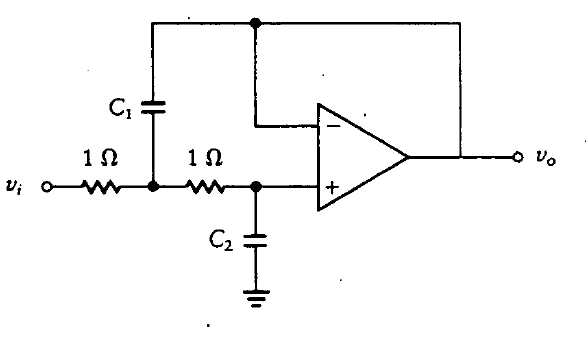
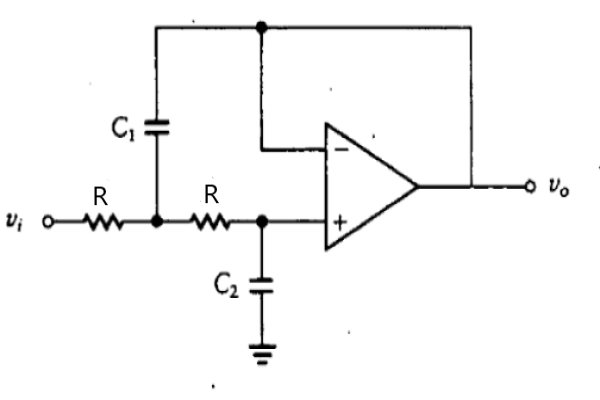
Se agregan las fots y se completa el back de filtros pasa bajas

Changed region(s): [[0.0, 0.0593, 0.9522, 0.9199], [0.6451, 0.4154, 0.6758, 0.4451], [0.6143, 0.3858, 0.6451, 0.4154]]

diff --git a/Java/MostrarinfoBajos.js b/Java/MostrarinfoBajos.js
@@ -1,0 +1,120 @@
+var imgPasabajos2= document.createElement('img'); 
+var imgPasabajos3= document.createElement('img'); 
+var imgPasabajos4= document.createElement('img'); 
+var imgPasabajos5= document.createElement('img'); 
+var imgPasabajos6= document.createElement('img'); 
+var imgPasabajos7= document.createElement('img'); 
+var imgPasabajos8= document.createElement('img'); 
+var imgPasabajos9= document.createElement('img'); 
+var imgPasabajos10= document.createElement('img'); 
+
+
+//var imgPasaaltos2= document.createElement('img'); 
+//var imgPasaaltos3= document.createElement('img'); 
+var Alerta = document.createElement('h1');
+Alerta.innerHTML = 'Grado invalido';
+imgPasabajos2.src = '../Imagenes/Pasabajos2.png';
+imgPasabajos3.src = '../Imagenes/Pasabajos3.png';
+imgPasabajos4.src = '../Imagenes/Pasabajos4.png';
+imgPasabajos5.src = '../Imagenes/Pasabajos5.png';
+imgPasabajos6.src = '../Imagenes/Pasabajos6.png';
+imgPasabajos7.src = '../Imagenes/Pasabajos7.png';
+imgPasabajos8.src = '../Imagenes/Pasabajos8.png';
+imgPasabajos9.src = '../Imagenes/Pasabajos9.png';
+imgPasabajos10.src = '../Imagenes/Pasabajos10.png';
+
+
+//imgPasaaltos2.src = '../Imagenes/PasaAltas2.png';
+//imgPasaaltos3.src = '../Imagenes/PasaAltas3.png';
+
+
+
+
+function Mostrarinfo(){
+    
+    var orden = Math.ceil(calcularOrden());
+    console.log(orden);
+    switch(orden){
+        case 2: 
+            document.getElementById("Imagen").appendChild(imgPasabajos2);
+            genera_tabla(calculo2Orden());
+            break;
+        case 3:
+            document.getElementById("Imagen").appendChild(imgPasabajos3);
+            genera_tabla(calculo2Orden());
+            break;
+        case 4:
+            document.getElementById("Imagen").appendChild(imgPasabajos4);
+            genera_tabla(calculo4Orden());
+            break;
+        case 5:
+            document.getElementById("Imagen").appendChild(imgPasabajos5);
+            genera_tabla(calculo5Orden());
+            break;
+        case 6:
+            document.getElementById("Imagen").appendChild(imgPasabajos6);
+            genera_tabla(calculo6Orden());
+            break;
+        case 7:
+            document.getElementById("Imagen").appendChild(imgPasabajos7);
+            genera_tabla(calculo7Orden());
+            break;
+        case 8:
+            document.getElementById("Imagen").appendChild(imgPasabajos8);
+            genera_tabla(calculo8Orden());
+            break;
+        case 9:
+            document.getElementById("Imagen").appendChild(imgPasabajos9);
+            genera_tabla(calculo9Orden());
+            break; 
+        case 10:
+            document.getElementById("Imagen").appendChild(imgPasabajos10);
+            genera_tabla(calculo10Orden());
+            break;   
+        default:
+            document.getElementById("Imagen").appendChild(Alerta);
+
+
+    }
+}
+
+function genera_tabla(arreglo) {
+    // Obtener la referencia del elemento body
+    var body = document.getElementById("Tabla")
+    document.getElementById('Tabla').innerHTML = "";
+    // Crea un elemento <table> y un elemento <tbody>
+    var tabla   = document.createElement("table");
+    var tblBody = document.createElement("tbody");
+  
+    // Crea las celdas
+    for (var i = 0; i < arreglo.length; i++) {
+      // Crea las hileras de la tabla
+      var hilera = document.createElement("tr");
+  
+      for (var j = 0; j < 2; j++) {
+        // Crea un elemento <td> y un nodo de texto, haz que el nodo de
+        // texto sea el contenido de <td>, ubica el elemento <td> al final
+        // de la hilera de la tabla
+        var celda = document.createElement("td");
+        if (j == 0){
+            var textoCelda = document.createTextNode("C"+(i+1));
+        }
+        else{
+            var textoCelda = document.createTextNode(arreglo[i]);
+        }
+        
+        celda.appendChild(textoCelda);
+        hilera.appendChild(celda);
+      }
+  
+      // agrega la hilera al final de la tabla (al final del elemento tblbody)
+      tblBody.appendChild(hilera);
+    }
+  
+    // posiciona el <tbody> debajo del elemento <table>
+    tabla.appendChild(tblBody);
+    // appends <table> into <body>
+    body.appendChild(tabla);
+    // modifica el atributo "border" de la tabla y lo fija a "2";
+  }
+  

diff --git a/Vistas/Pasabajas.html b/Vistas/Pasabajas.html
@@ -6,18 +6,20 @@
     <meta name="viewport" content="width=device-width, initial-scale=1.0">
     <link href="https://cdn.jsdelivr.net/npm/bootstrap@5.3.0-alpha1/dist/css/bootstrap.min.css" rel="stylesheet" integrity="sha384-GLhlTQ8iRABdZLl6O3oVMWSktQOp6b7In1Zl3/Jr59b6EGGoI1aFkw7cmDA6j6gD" crossorigin="anonymous">
     <script type="text/javascript" src="/Java/Calculos.js"></script>
-    <script type="text/javascript" src="/Java/Mostrarinfo.js"></script>
+    <script type="text/javascript" src="/Java/MostrarinfoBajos.js"></script>
     <title>Document</title>
 </head>
 <body>
     <h1>PASA BAJAS</h1>
     <h2>Ingrese Frecuencia de paso</h2><input type="number" id="FP">
     <h2>Ingrese Frecuencia de rechazo</h2><input type="number" id="FS">
-    <h2>Ingrese Frecuencia el valor de la resitencia</h2><input type="number" id="RS">
+    <h2>Ingrese el valor de la resitencia</h2><input type="number" id="RS">
     <button onclick="Mostrarinfo()">Calcular</button>
-    <div id="Llenar">
-        
-    </div>
+    <center>
+        <div id="Imagen"></div>
+        <div id="Tabla"></div>
+    </center>
+    
     
 </body>
 </html>
